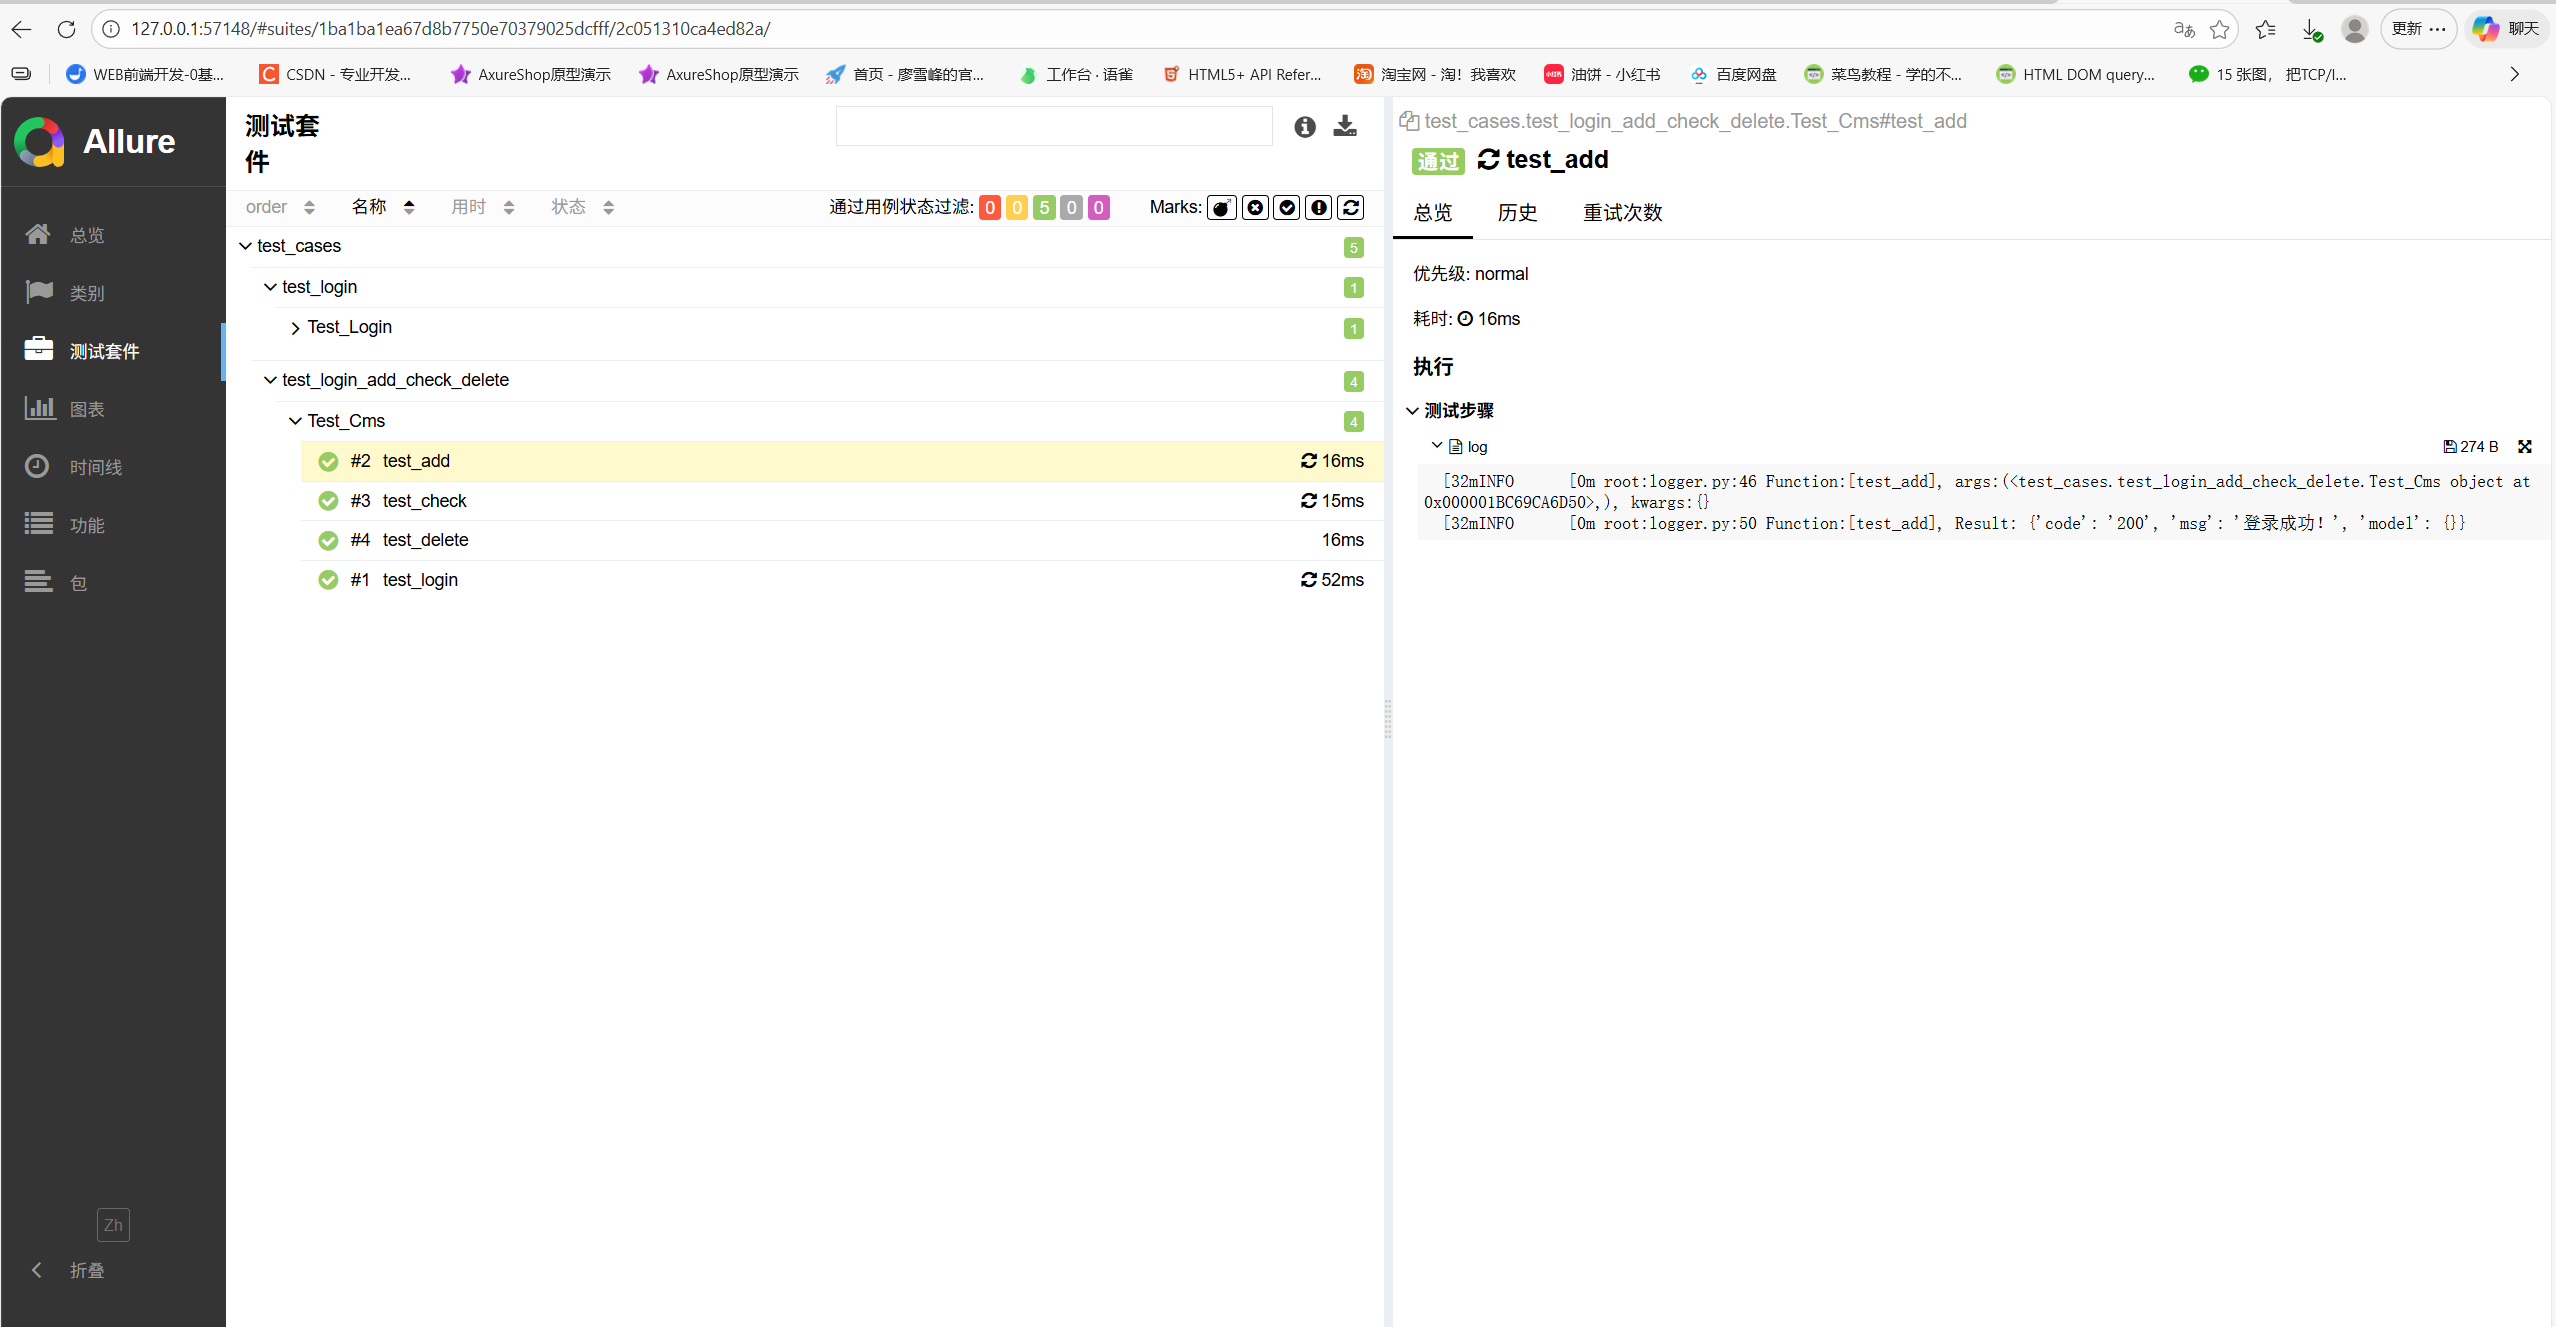
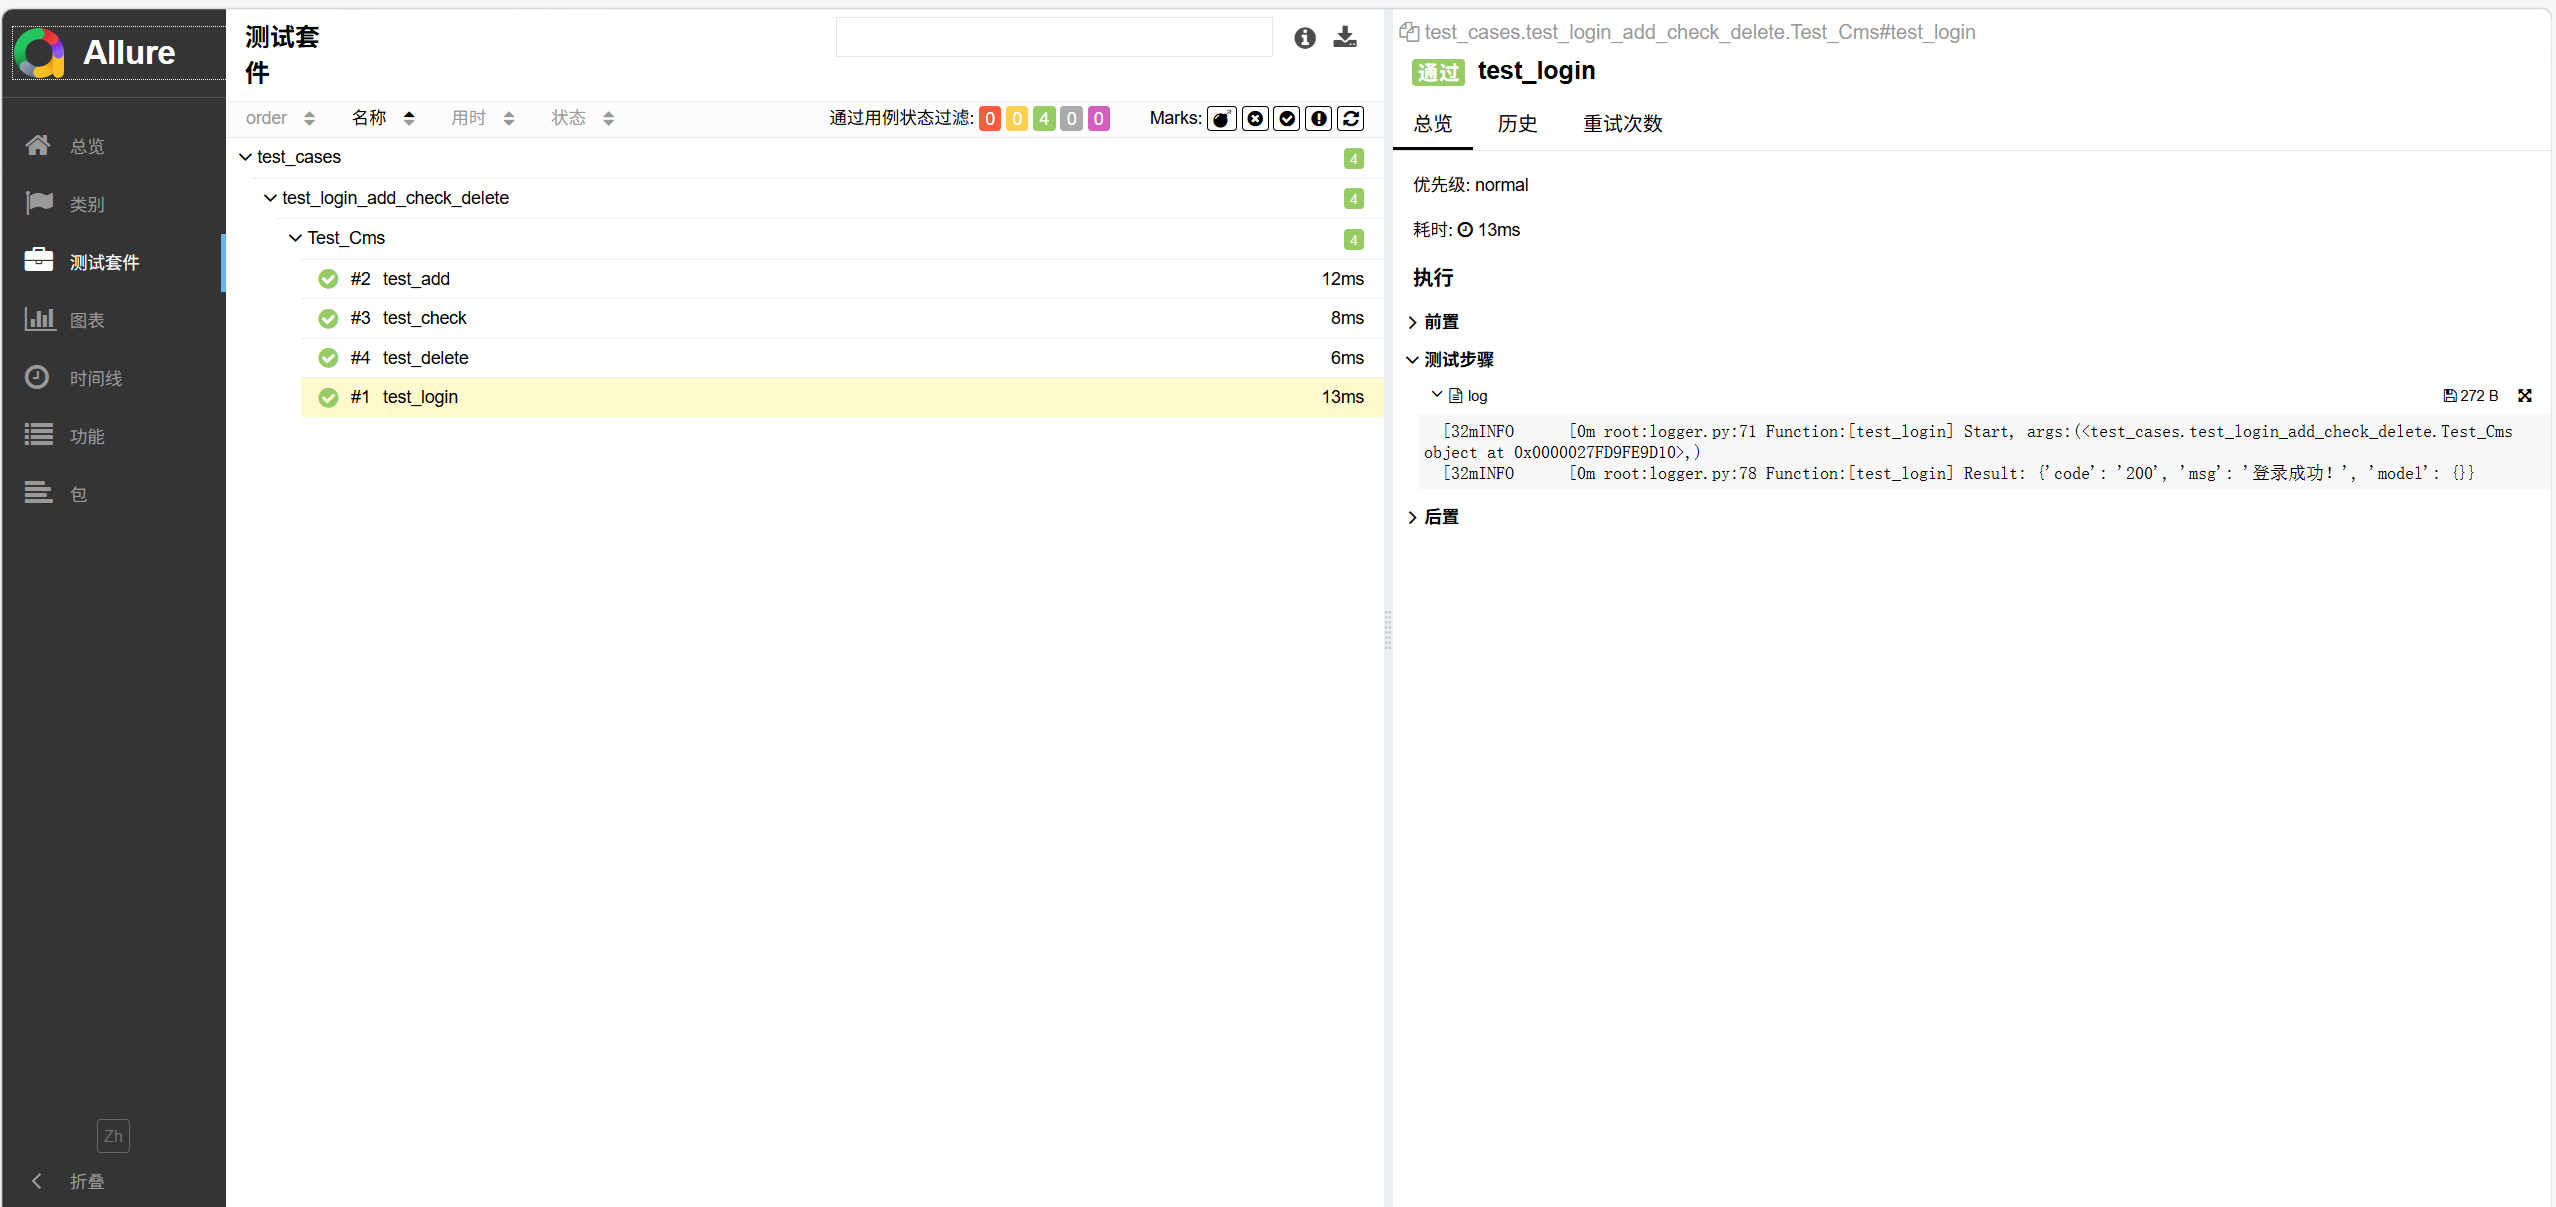
更新README

diff --git a/test_cases/test_login_add_check_delete.py b/test_cases/test_login_add_check_delete.py
@@ -1,6 +1,7 @@
 import pytest
 import os
 import json
+from db.db_operation import db
 from common.method import MyRequests
 from common.public_path import base_path
 from utils.read_excel import Read_Excel
@@ -10,29 +11,21 @@ req=MyRequests()#实例化发起请求的类
 read_ex=Read_Excel()#实例化读取excel的类
 r_w_file=Read_Write_File()
 
-class Test_Cms():
+class Test_Cms:
+    user_id = None
 
-    # 1. 定义清理数据的 Fixture
     @pytest.fixture(autouse=True, scope="class")
-    def manage_db_cleanup(self):
-        # yield 之前是前置，这里可以留空
-        yield 
-        # --- yield 之后是后置 (Teardown) ---
-        print("\n[Teardown] 开始强制清理数据库测试数据...")
-        try:
-            # 从文件读取 ID
-            id_value = r_w_file.read_file() 
-            if id_value:
-                # 引用你之前写好的 Connect_mysql
-                from utils.read_sql import Connect_mysql
-                db = Connect_mysql('127.0.0.1', 'root', 'root', 'cms_db', 3306)
-                # 执行物理删除
-                db.cursor.execute(f"DELETE FROM sys_user WHERE id = {id_value}")
-                db.db_connect.commit()
-                print(f"[Teardown] ID:{id_value} 已被清理。")
-        except Exception as e:
-            print(f"[Teardown] 清理失败: {e}")
-            
+    def clean_db_data(self):
+        yield
+        # 2. 现在这里就可以正常调用了
+        if self.user_id:
+            # 执行删除并获取受影响行数
+            res = db.delete_user(self.user_id) 
+            if res > 0:
+                print(f"[Teardown] 数据库清理成功，删除了 ID: {self.user_id}")
+            else:
+                print(f"[Teardown] 数据库中已无 ID: {self.user_id}，无需清理")
+
     #在类方法上方写一行 @trace_log，它就会自动帮你记录每一个接口的请求和响应信息。这对于排查测试失败的原因（Traceback）极其有用
     @trace_log
     def test_login(self):
@@ -52,25 +45,86 @@ class Test_Cms():
     @trace_log
     def test_check(self):
         resp = req.post(url=read_ex.get_url(3), data=read_ex.get_body(3))
+        print(resp.json())
         global id_value
         id_value=resp.json()['model']['userList'][0]['id']
         return resp.json()
 
-    # @trace_log
-    # def test_delete(self):
-    #     id_value=r_w_file.read_file()#读取txt文件里最近添加的用户id
-    #     body={'ids':id_value}
-    #     resp = req.post(url=read_ex.get_url(4), data=body)
-    #     print(resp.json())
-    #     return resp.json()
-
     @trace_log
     def test_delete(self):
-        id_value = r_w_file.read_file() # 读取 txt 里的 ID
-        body = {'ids': id_value}
-        print(f"--- 准备删除的 ID 是: {id_value} ---") # 加这一行
+        id_value=r_w_file.read_file()#读取txt文件里最近添加的用户id
+        body={'ids':id_value}
         resp = req.post(url=read_ex.get_url(4), data=body)
+        print(resp.json())
+        print(f"我要删的ID确实是: {id_value}")
         return resp.json()
+
+    # @trace_log
+    # def test_delete(self):
+    #     id_value = r_w_file.read_file() # 读取 txt 里的 ID
+    #     body = {'ids': id_value}
+    #     print(f"--- 准备删除的 ID 是: {id_value} ---") # 加这一行
+    #     resp = req.post(url=read_ex.get_url(4), data=body)
+    #     return resp.json()
+    
+
+
+    # #-------优化return，数据传递
+    # # 定义类变量，用于在不同测试用例间传递数据
+    # user_id = None 
+
+    # @trace_log
+    # def test_login(self):
+    #     resp = req.post(url=read_ex.get_url(1), data=read_ex.get_body(1))
+    #     res_json = resp.json()
+    #     print(res_json)
+    #     # 断言
+    #     # assert res_json['code'] == json.loads(read_ex.get_except(1))['code']
+    #     assert str(res_json['code']) == str(json.loads(read_ex.get_except(1))['code'])
+
+    # @trace_log
+    # def test_add(self):
+    #     resp = req.post(url=read_ex.get_url(2), data=read_ex.get_body(2))
+    #     res_json = resp.json()
+    #     print(res_json)
+        
+    #     # 1. 增加断言确保添加成功
+    #     # assert res_json['code'] == 200 
+    #     assert int(res_json['code']) == 200
+        
+    #     # 2. 依然可以写入文件（如果你的框架需要持久化数据）
+    #     r_w_file.write_file() 
+    #     # 3. 也可以存入类变量供下方使用
+    #     # Test_Cms.user_id = 某解析出来的ID 
+
+    # @trace_log
+    # def test_check(self):
+    #     resp = req.post(url=read_ex.get_url(3), data=read_ex.get_body(3))
+    #     res_json = resp.json()
+        
+    #     # 优化：避免使用 global，直接解析并断言
+    #     # assert res_json['code'] == 200
+    #     assert int(res_json['code']) == 200
+    #     assert len(res_json['model']['userList']) > 0
+        
+    #     # 如果需要给 test_delete 用，存入类变量
+    #     Test_Cms.user_id = res_json['model']['userList'][0]['id']
+
+    # @trace_log
+    # def test_delete(self):
+    #     # 优先从类变量获取，如果没有再从文件读取（双重保险）
+    #     id_to_del = Test_Cms.user_id or r_w_file.read_file()
+        
+    #     if not id_to_del:
+    #         pytest.skip("没有获取到要删除的 ID，跳过此用例")
+            
+    #     body = {'ids': id_to_del}
+    #     print(f"--- 准备删除的 ID 是: {id_to_del} ---")
+        
+    #     resp = req.post(url=read_ex.get_url(4), data=body)
+    #     # 增加删除结果的断言
+    #     # assert resp.json()['code'] == 200
+    #     assert int(resp.json()['code']) == 200
 
     # @trace_log
     # def test_delete(self):

diff --git a/utils/logger.py b/utils/logger.py
@@ -37,18 +37,46 @@ class Logger:
 # 实例化 Logger 并调用 logger() 方法，得到一个全局可用的 log 对象
 log = Logger().logger()
 
+# def trace_log(func):
+#     """
+#     这是一个日志装饰器，用来自动记录函数的执行情况
+#     """
+#     def wrapper(*args, **kwargs):
+#         # 在函数执行前：记录函数名、位置参数(*args)和关键字参数(**kwargs)
+#         log.info('Function:[{}], args:{}, kwargs:{}'.format(func.__name__, args, kwargs))
+#         # 正式执行被装饰的函数（如 test_login）
+#         result = func(*args, **kwargs)
+#         # 在函数执行后：记录函数名和它的返回值（Result）
+#         log.info('Function:[{}], Result: {}'.format(func.__name__, result))
+#         # 返回函数的执行结果，保证原函数功能不受影响
+#         return result
+#     return wrapper
+
+
+# def trace_log(func):
+#     @wraps(func)  # 必须加这一行，解决 Allure 关联错乱的关键
+#     def wrapper(*args, **kwargs):
+#         log.info(f'Function:[{func.__name__}], args:{args}')
+#         result = func(*args, **kwargs)
+#         log.info(f'Function:[{func.__name__}], Result: {result}')
+#         return result
+#     return wrapper
+
+from functools import wraps
+
 def trace_log(func):
-    """
-    这是一个日志装饰器，用来自动记录函数的执行情况
-    """
+    @wraps(func)
     def wrapper(*args, **kwargs):
-        # 在函数执行前：记录函数名、位置参数(*args)和关键字参数(**kwargs)
-        log.info('Function:[{}], args:{}, kwargs:{}'.format(func.__name__, args, kwargs))
-        # 正式执行被装饰的函数（如 test_login）
+        # 1. 记录开始执行
+        log.info(f"Function:[{func.__name__}] Start, args:{args}")
+        
+        # 2. 正式执行函数
         result = func(*args, **kwargs)
-        # 在函数执行后：记录函数名和它的返回值（Result）
-        log.info('Function:[{}], Result: {}'.format(func.__name__, result))
-        # 返回函数的执行结果，保证原函数功能不受影响
+        
+        # 3. 只有当确实有返回值（非测试用例）时才打印结果
+        if result is not None:
+            log.info(f"Function:[{func.__name__}] Result: {result}")
+        
         return result
     return wrapper
 

diff --git a/db/db_operation.py b/db/db_operation.py
@@ -1,0 +1,52 @@
+import pymysql
+
+class DBOperation:
+    def __init__(self):
+        # 这里的配置建议以后抽离到 config.ini 中
+        self.config = {
+            "host": "127.0.0.1",
+            "port": 3306,
+            "user": "root",
+            "password": "root",
+            "database": "cms_db",
+            "charset": "utf8mb4",
+            "autocommit": True  # 自动提交，删除操作必须开启或手动 commit
+        }
+        self.conn = None
+        self.cursor = None
+
+    def connect(self):
+        """建立连接"""
+        self.conn = pymysql.connect(**self.config)
+        self.cursor = self.conn.cursor(pymysql.cursors.DictCursor)
+
+    def delete_user(self, user_id):
+        """
+        根据 ID 删除用户
+        :param user_id: 用户 ID
+        :return: 受影响的行数 (int)
+        """
+        if not user_id:
+            return 0
+            
+        sql = "DELETE FROM users WHERE id = %s"
+        try:
+            self.connect()
+            rows = self.cursor.execute(sql, (user_id,))
+            print(f"[DB] 执行删除 SQL: {sql} % {user_id}, 影响行数: {rows}")
+            return rows
+        except Exception as e:
+            print(f"[DB] 删除失败: {e}")
+            return 0
+        finally:
+            self.close()
+
+    def close(self):
+        """关闭连接"""
+        if self.cursor:
+            self.cursor.close()
+        if self.conn:
+            self.conn.close()
+
+# 在模块末尾实例化，这样其他文件 import db 就能直接用
+db = DBOperation()
